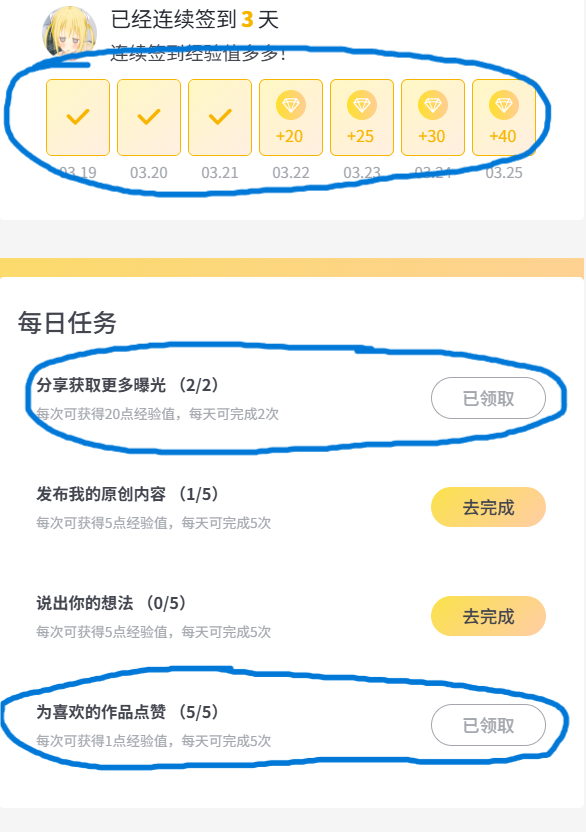
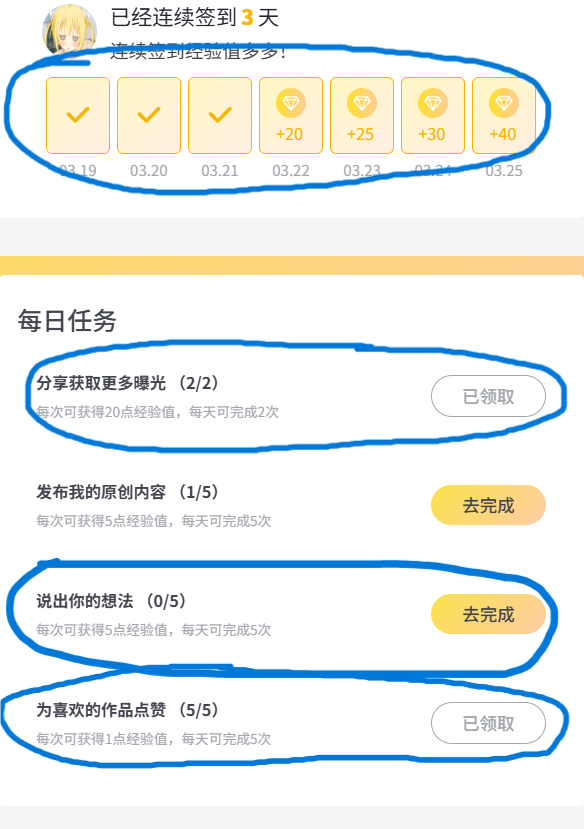
更新README.md，添加分享功能关闭说明和评论功能信息；调整账号密码配置示例中的基础等待时间

diff --git a/README.md b/README.md
@@ -1,7 +1,7 @@
 # my.nikon.com.cn 网站自动签到脚本
 
 ## 项目概述
-使用Selenium和本地Edge驱动实现浏览器自动化，可以完成 **1连续签到** **2为喜欢的作品点赞** **3分享获取更多曝光**。
+使用Selenium和本地Edge驱动实现浏览器自动化，可以完成 **1连续签到** **2为喜欢的作品点赞** **3分享获取更多曝光（网站原因关闭了此功能）** **4说出你的想法** 。
 <div style="text-align:center">
   <img src="./说明.png" width="50%">
 </div>
@@ -20,6 +20,7 @@
 - **浏览器驱动**: 本地Edge驱动 (edgedriver_win64/msedgedriver.exe)
 
 ## 日志
+-  3/25：适配新版本我的尼康的代码和包发布，由于bug（我指的是网站）多，分享功能暂时关闭，增加了评论功能。
 -  3/23下午：貌似新版本bug不少，回滚老版本了，流汗黄豆。
 -  3/23上午：太帅了尼康，我刚用三天，整个网站页面全部重构了。
 
